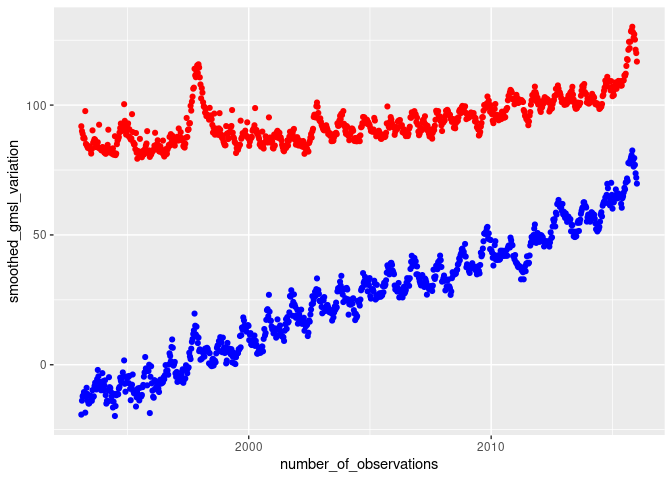
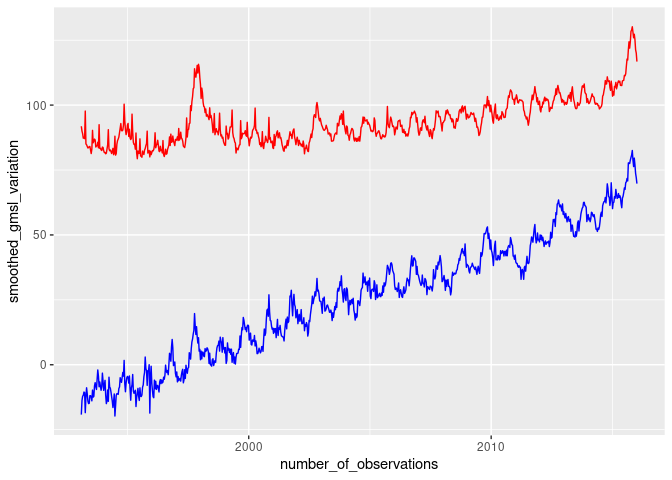
Try

Changed region(s): [[0.0938, 0.3125, 0.9688, 0.875], [0.0938, 0.0625, 0.9688, 0.3438]]

diff --git a/assignment/climate.md b/assignment/climate.md
@@ -1,16 +1,17 @@
 Climate Exercise
 ================
-Carl Boettiger & Dana Seidel
+Joslyn Fu & Kelly Yuan
 
-# Unit I: Climate Change Module
+This is a climate change excerise by Joslyn and Jiaming to dive into how
+the main indicators of climate change, including C02 trends, global
+temperature change. . \# C02 Trends
 
-## Warm-up exercise: Examining CO2 trends in R
+First, we exmaine the CO2 trends. This is from the [NASA Climate Change
+Section](http://climate.nasa.gov/vital-signs/carbon-dioxide/), and the
+original data is obtained from the National Oceanic and Atmospheric
+Administration, specifically the Earth System Research Laboratories.
 
-  - Example from <http://climate.nasa.gov/vital-signs/carbon-dioxide/>
-  - Raw data from
-    <ftp://aftp.cmdl.noaa.gov/products/trends/co2/co2_mm_mlo.txt>
-
-<!-- end list -->
+The Data is shown below:
 
 ``` r
 library(tidyverse)
@@ -41,39 +42,39 @@ co2
     ## 10  1958    12        1959.    315.         315.  316.    NA
     ## # … with 739 more rows
 
+We then visualize the data.
+
 ``` r
 ggplot(co2, aes(x = decimal_date, y = average)) + geom_line() 
 ```
 
 ![](climate_files/figure-gfm/unnamed-chunk-3-1.png)<!-- -->
 
-Which months are the CO2 values at the maximum? Minimum? Why is this?
-
-Maximum: 5, 6 Minimum Range 9, 10,
-
-Much of this variation happens because of the role of plants in the
-carbon cycle. Plants extract CO2 from the atmosphere, along with
-sunlight and water, to make food and other substances that they need to
-grow.CO2 in the atmosphere decreases during the growing season and
-increases during the rest of the year, which leads to maximum buildup in
-April and May before photosynthesis begins to take over in the summer
-time. Photosynthesis, in which plants take up CO2 from the atmosphere
-and release oxygen, dominates during the growing season (the warmer part
-of the year). Respiration, by which plants and animals take up oxygen
-and release CO2, occurs all the time but dominates during the colder
-months of the year.
+According to the dataset, C02 level usually reaches its annual maximum
+around May and June, and its minimum around September and Octobor. Based
+on our research, much of this variation happens because of the role of
+plants in the carbon cycle. Plants extract CO2 from the atmosphere,
+along with sunlight and water, to make food and other substances that
+they need to grow —— this is the process of *photosysthesis*. Therefore,
+CO2 in the atmosphere decreases during the growing season and increases
+during the rest of the year, which leads to maximum buildup in May
+before photosynthesis begins to take over in the summer time.
+Photosynthesis, in which plants take up CO2 from the atmosphere and
+release oxygen, dominates during the growing season (the warmer part of
+the year). Respiration, by which plants and animals take up oxygen and
+release CO2, occurs all the time but dominates during the colder months
+of the year.
 
 What rolling average is used in computing the “trend” line? How does the
 trend depend on the rolling average?
 
 -----
 
-# Exercise I: Temperature Data
+# Global Temperatre
 
-Each of the last years has consecutively set new records on global
-climate. In this section we will analyze global mean temperature data.
-
-Data from: <http://climate.nasa.gov/vital-signs/global-temperature>
+After examining CO2 trend, we look into the global temperature data from
+[NASA Global Climate Change
+Section](http://climate.nasa.gov/vital-signs/global-temperature).
 
 ## Question 1:
 
@@ -87,24 +88,25 @@ in understanding this data:
   - What is the resolution of the data?
   - Are their missing values? How should they be handled?
 
-## Question 2:
+The temperature dataset contains information about gobal annual mean
+temperature from 1880 to 2019 relative to 1951-1980 average
+temperatures. This graph illustrates the change in global surface
+temperature relative to 1951-1980 average temperatures.
 
-Construct the necessary R code to import and prepare for manipulation
-the following data set:
-<http://climate.nasa.gov/system/internal_resources/details/original/647_Global_Temperature_Data_File.txt>
+Please see the below dataset table.
 
 ``` r
 temperature <- read_table(
   "http://climate.nasa.gov/system/internal_resources/details/original/647_Global_Temperature_Data_File.txt",
   skip = 5,
-  col_names = c("year","no_smoothing","lowess"))
+  col_names = c("year","temp","lowess5"))
 ```
 
     ## Parsed with column specification:
     ## cols(
     ##   year = col_double(),
-    ##   no_smoothing = col_double(),
-    ##   lowess = col_double()
+    ##   temp = col_double(),
+    ##   lowess5 = col_double()
     ## )
 
 ``` r
@@ -112,32 +114,35 @@ temperature
 ```
 
     ## # A tibble: 140 x 3
-    ##     year no_smoothing lowess
-    ##    <dbl>        <dbl>  <dbl>
-    ##  1  1880        -0.16  -0.08
-    ##  2  1881        -0.07  -0.12
-    ##  3  1882        -0.1   -0.16
-    ##  4  1883        -0.17  -0.19
-    ##  5  1884        -0.28  -0.23
-    ##  6  1885        -0.32  -0.25
-    ##  7  1886        -0.3   -0.26
-    ##  8  1887        -0.35  -0.26
-    ##  9  1888        -0.16  -0.26
-    ## 10  1889        -0.09  -0.25
+    ##     year  temp lowess5
+    ##    <dbl> <dbl>   <dbl>
+    ##  1  1880 -0.16   -0.08
+    ##  2  1881 -0.07   -0.12
+    ##  3  1882 -0.1    -0.16
+    ##  4  1883 -0.17   -0.19
+    ##  5  1884 -0.28   -0.23
+    ##  6  1885 -0.32   -0.25
+    ##  7  1886 -0.3    -0.26
+    ##  8  1887 -0.35   -0.26
+    ##  9  1888 -0.16   -0.26
+    ## 10  1889 -0.09   -0.25
     ## # … with 130 more rows
 
-## Question 3:
+This is the trend in global mean temperatures over time.
 
 Plot the trend in global mean temperatures over time. Describe what you
 see in the plot and how you interpret the patterns you observe.
 
 ``` r
 temperature %>%
-  ggplot(aes(x = year, y = no_smoothing))+
-  geom_point(aes(y = lowess))
+  ggplot(aes(x = year, y = temp)) + geom_line()
 ```
 
 ![](climate_files/figure-gfm/unnamed-chunk-5-1.png)<!-- -->
+
+According to the graph, the overall trend in global temperature is
+increasing. Starting from 2012, the increase in global temperature is
+even
 
 ## Question 4: Evaluating the evidence for a “Pause” in warming?
 
@@ -232,8 +237,8 @@ Plot the data and describe the trends you observe.
 ``` r
 ice %>%
   ggplot(aes(x = time)) + 
-  geom_point(aes(y = greenland_mass), col="blue") +
-  geom_point(aes(y = antarctica_mass), col = "green")
+  geom_line(aes(y = greenland_mass), col="blue") +
+  geom_line(aes(y = antarctica_mass), col = "green")
 ```
 
 ![](climate_files/figure-gfm/unnamed-chunk-7-1.png)<!-- -->
@@ -315,8 +320,8 @@ Plot the data and describe the trends you observe.
 ``` r
 sea_level %>%
   ggplot(aes(x = number_of_observations)) +
-  geom_point(aes(y = smoothed_gmsl_variation),col= "blue") +
-  geom_point(aes(y = smoothed_gmsl_variation_removed_signal),col= "red")
+  geom_line(aes(y = smoothed_gmsl_variation),col= "blue") +
+  geom_line(aes(y = smoothed_gmsl_variation_removed_signal),col= "red")
 ```
 
 ![](climate_files/figure-gfm/unnamed-chunk-9-1.png)<!-- -->
@@ -340,7 +345,7 @@ object.
 
 ``` r
 #sea_ice <- read_csv("ftp://sidads.colorado.edu/DATASETS/NOAA/G02135/north/daily/data/N_seaice_extent_daily_v3.0.csv")
-#sea_ice
+#head(sea_ice)
 ```
 
 ## Question 3:
@@ -376,4 +381,12 @@ Vostok Core, back to 400,000 yrs before present day
   - Consider various smoothing windowed averages of the data.
   - Join this series to Mauna Loa data
   - Plot joined data
-  - Describe your conclusions
+  - Describe your
+conclusions
+
+<!-- end list -->
+
+``` r
+#table <- read_csv("http://cdiac.ornl.gov/ftp/trends/co2/vostok.icecore.co2")
+#table
+```
